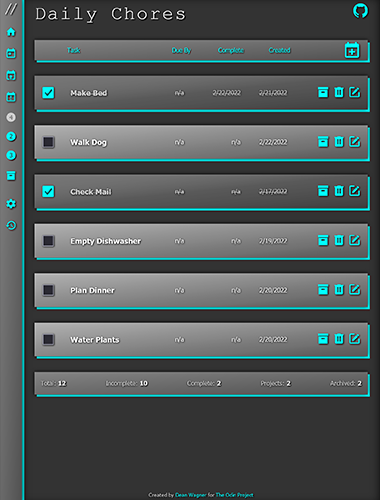
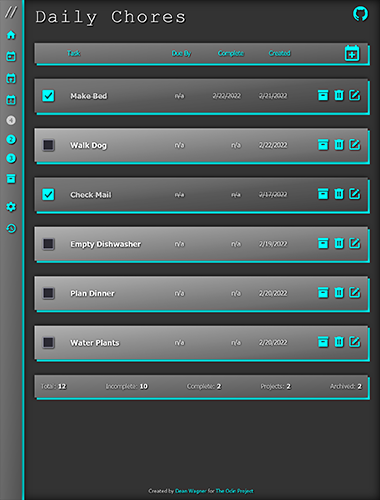
responsive tweaks

Changed region(s): [[0.0868, 0.0, 0.9842, 0.81], [0.0, 0.0, 0.0579, 0.48], [0.3763, 0.96, 0.6658, 1.0]]

diff --git a/res/theme.js b/res/theme.js
@@ -102,7 +102,7 @@ class Theme {
 
         // Resize Window Event Listener
         window.addEventListener('resize', () => {
-            if (window.innerHeight >= window.innerWidth) {
+            if ((window.innerHeight >= window.innerWidth) || (window.innerWidth <= 1200)) {
                 document.body.classList.add('collapsed');
             } else {
                 document.body.classList.remove('collapsed');
